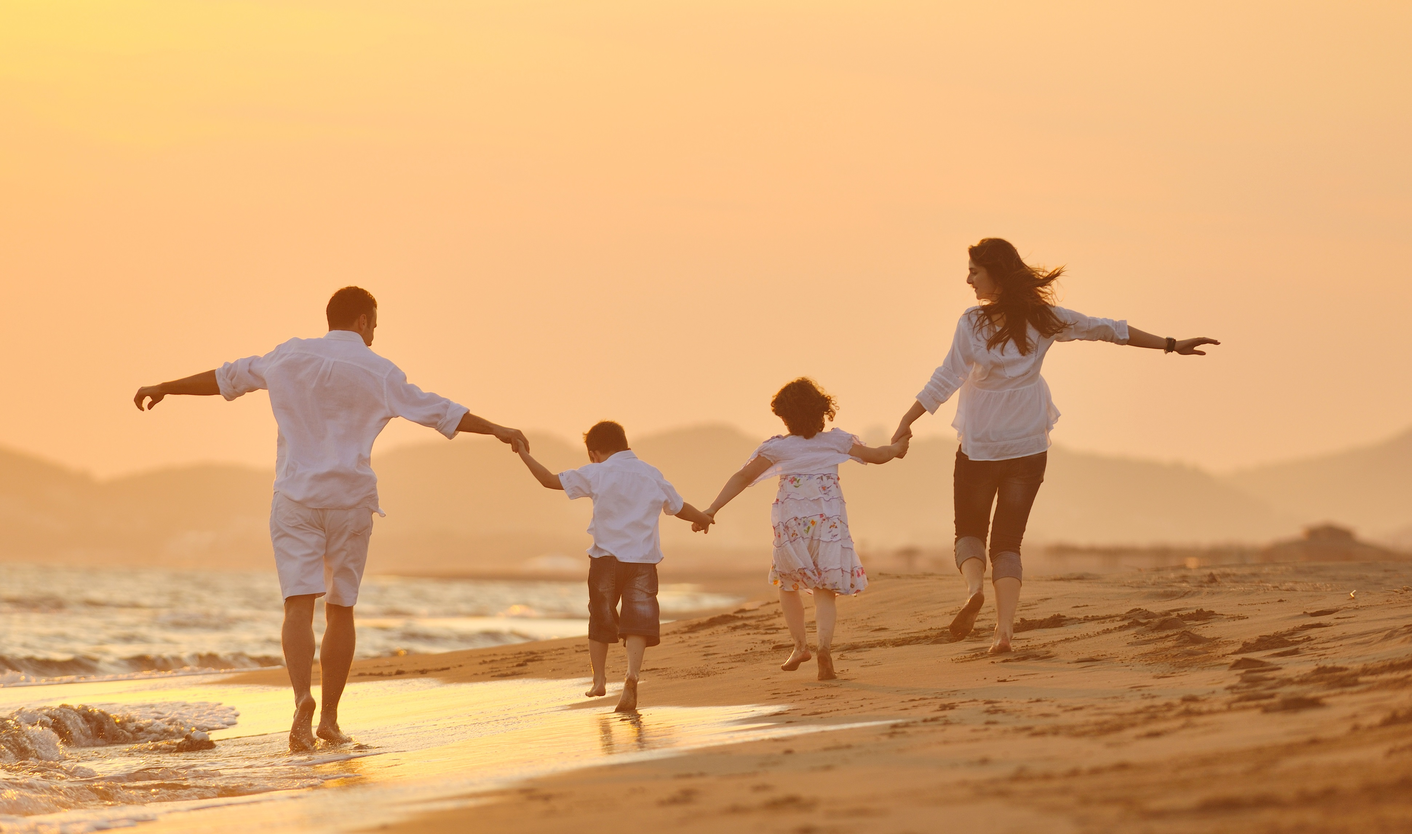
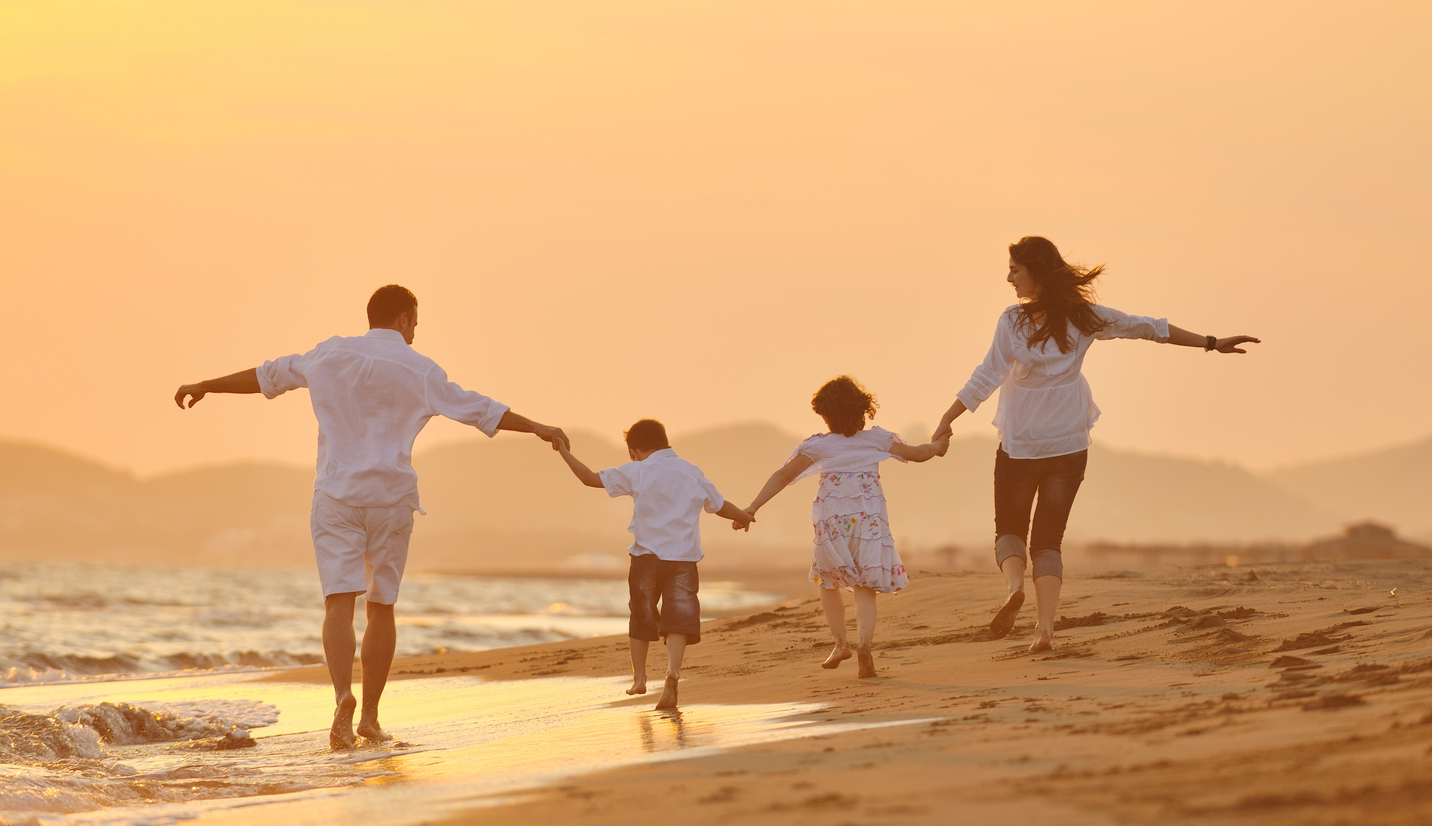
img cropped

diff --git a/app/templates/bootstrap_form.html b/app/templates/bootstrap_form.html
@@ -22,6 +22,7 @@
         <div class="container-login">
           <form class="form-signin" action="{{ url_for('map') }}">
             <h2 class="form-signin-heading">Your Next Getaway</h2>
+            <br>
             <label for="inputDestination" class="sr-only">Destination</label>
             <input type="destination" name="destination" id="inputDestination" class="form-control" placeholder="Destination" required>
             <br><br>

diff --git a/app/static/css/signin.css b/app/static/css/signin.css
@@ -15,6 +15,7 @@ body {;
 .form-signin .form-signin-heading,
 .form-signin {
   margin-bottom: 10px;
+  text-align: center;
 }
 .form-signin .form-control {
   position: relative;
